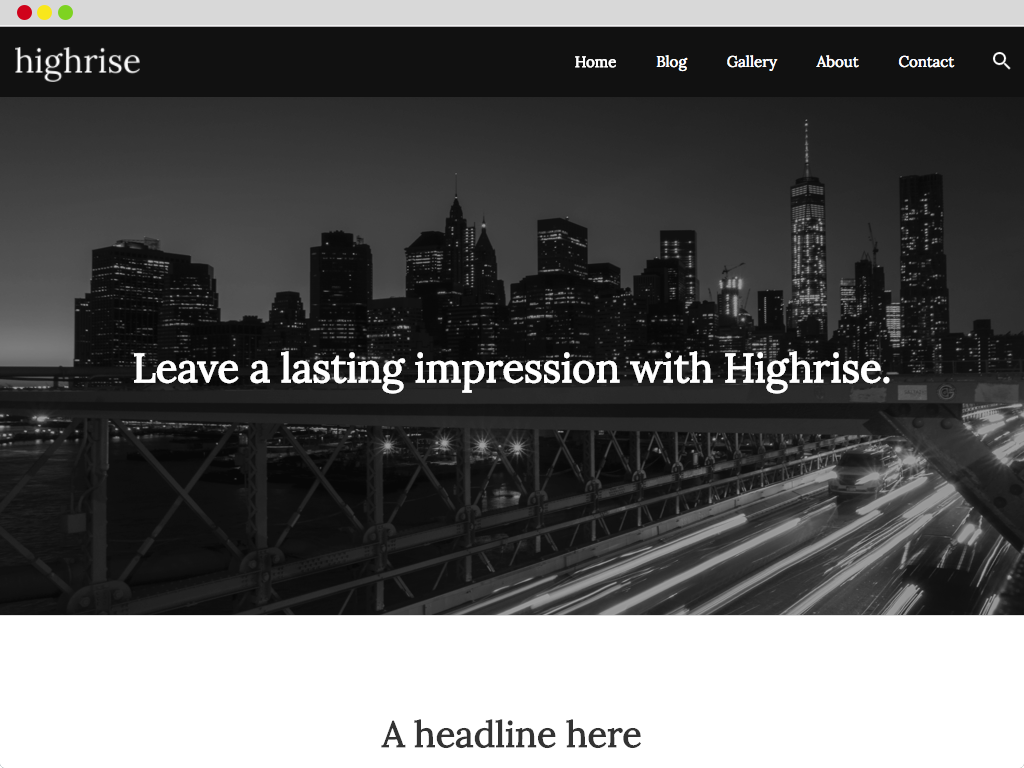
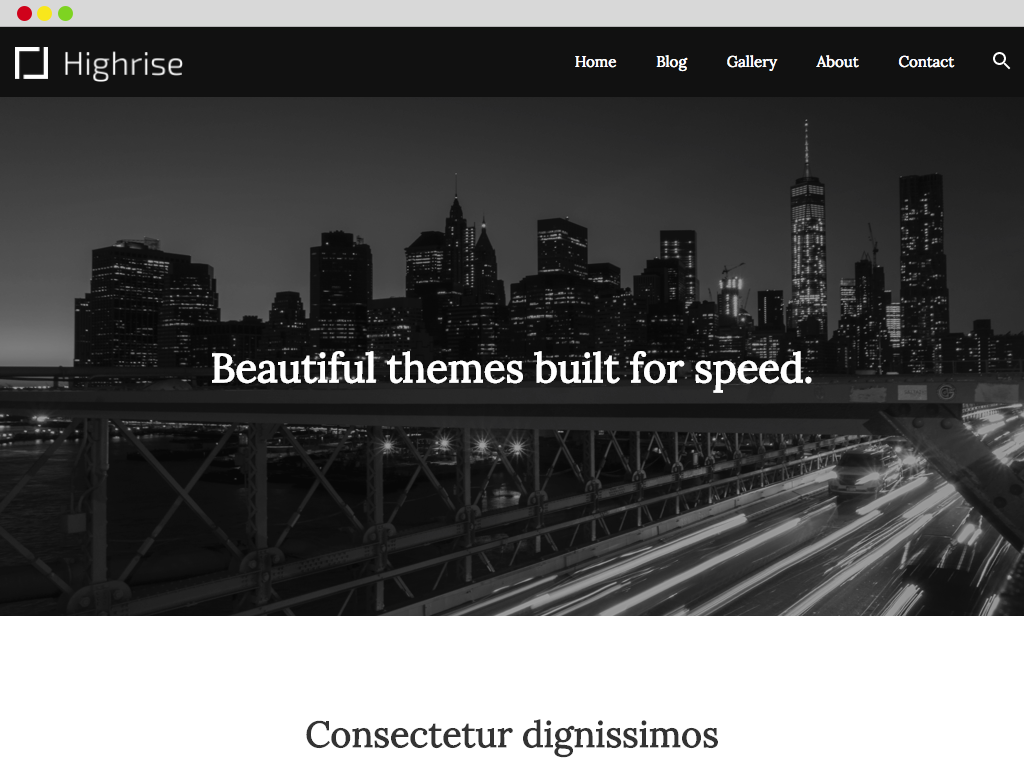
update themes for release

diff --git a/css/site.min.css b/css/site.min.css
@@ -1,1 +1,1 @@
-.mfp-bg{top:0;left:0;width:100%;height:100%;z-index:1042;overflow:hidden;position:fixed;background:#0b0b0b;opacity:.8;filter:alpha(opacity=80)}.mfp-wrap{top:0;left:0;width:100%;height:100%;z-index:1043;position:fixed;outline:0!important;-webkit-backface-visibility:hidden}.mfp-container{text-align:center;position:absolute;width:100%;height:100%;left:0;top:0;padding:0 8px;-webkit-box-sizing:border-box;-moz-box-sizing:border-box;box-sizing:border-box}.mfp-container:before{content:'';display:inline-block;height:100%;vertical-align:middle}.mfp-align-top .mfp-container:before{display:none}.mfp-content{position:relative;display:inline-block;vertical-align:middle;margin:0 auto;text-align:left;z-index:1045}.mfp-ajax-holder .mfp-content,.mfp-inline-holder .mfp-content{width:100%;cursor:auto}.mfp-ajax-cur{cursor:progress}.mfp-zoom-out-cur,.mfp-zoom-out-cur .mfp-image-holder .mfp-close{cursor:-moz-zoom-out;cursor:-webkit-zoom-out;cursor:zoom-out}.mfp-zoom{cursor:pointer;cursor:-webkit-zoom-in;cursor:-moz-zoom-in;cursor:zoom-in}.mfp-auto-cursor .mfp-content{cursor:auto}.mfp-arrow,.mfp-close,.mfp-counter,.mfp-preloader{-webkit-user-select:none;-moz-user-select:none;user-select:none}.mfp-loading.mfp-figure{display:none}.mfp-hide{display:none!important}.mfp-preloader{color:#ccc;position:absolute;top:50%;width:auto;text-align:center;margin-top:-.8em;left:8px;right:8px;z-index:1044}.mfp-preloader a{color:#ccc}.mfp-preloader a:hover{color:#fff}.mfp-s-error .mfp-content,.mfp-s-ready .mfp-preloader{display:none}button.mfp-arrow,button.mfp-close{overflow:visible;cursor:pointer;background:0 0;border:0;-webkit-appearance:none;display:block;outline:0;padding:0;z-index:1046;-webkit-box-shadow:none;box-shadow:none}button::-moz-focus-inner{padding:0;border:0}.mfp-close{width:44px;height:44px;line-height:44px;position:absolute;right:0;top:0;text-decoration:none;text-align:center;opacity:.65;padding:0 0 18px 10px;color:#fff;font-style:normal;font-size:28px;font-family:Arial,Baskerville,monospace}.mfp-close:focus,.mfp-close:hover{opacity:1}.mfp-close:active{top:1px}.mfp-close-btn-in .mfp-close{color:#333}.mfp-iframe-holder .mfp-close,.mfp-image-holder .mfp-close{color:#fff;right:-6px;text-align:right;padding-right:6px;width:100%}.mfp-counter{position:absolute;top:0;right:0;color:#ccc;font-size:12px;line-height:18px}.mfp-arrow{position:absolute;opacity:.65;margin:-55px 0 0;top:50%;padding:0;width:90px;height:110px;-webkit-tap-highlight-color:transparent}.mfp-arrow:active{margin-top:-54px}.mfp-arrow:focus,.mfp-arrow:hover{opacity:1}.mfp-arrow .mfp-a,.mfp-arrow .mfp-b,.mfp-arrow:after,.mfp-arrow:before{content:'';display:block;width:0;height:0;position:absolute;left:0;top:0;margin-top:35px;margin-left:35px;border:inset transparent}.mfp-arrow .mfp-a,.mfp-arrow:after{border-top-width:13px;border-bottom-width:13px;top:8px}.mfp-arrow .mfp-b,.mfp-arrow:before{border-top-width:21px;border-bottom-width:21px}.mfp-arrow-left{left:0}.mfp-arrow-left .mfp-a,.mfp-arrow-left:after{border-right:17px solid #fff;margin-left:31px}.mfp-arrow-left .mfp-b,.mfp-arrow-left:before{margin-left:25px;border-right:27px solid #3f3f3f}.mfp-arrow-right{right:0}.mfp-arrow-right .mfp-a,.mfp-arrow-right:after{border-left:17px solid #fff;margin-left:39px}.mfp-arrow-right .mfp-b,.mfp-arrow-right:before{border-left:27px solid #3f3f3f}.mfp-iframe-holder{padding-top:40px;padding-bottom:40px}.mfp-iframe-holder .mfp-content{line-height:0;width:100%;max-width:900px}.mfp-iframe-holder .mfp-close{top:-40px}.mfp-iframe-scaler{width:100%;height:0;overflow:hidden;padding-top:56.25%}.mfp-iframe-scaler iframe{position:absolute;display:block;top:0;left:0;width:100%;height:100%;box-shadow:0 0 8px rgba(0,0,0,.6);background:#000}img.mfp-img{width:auto;max-width:100%;height:auto;display:block;line-height:0;-webkit-box-sizing:border-box;-moz-box-sizing:border-box;box-sizing:border-box;padding:40px 0;margin:0 auto}.mfp-figure{line-height:0}.mfp-figure:after{content:'';position:absolute;left:0;top:40px;bottom:40px;display:block;right:0;width:auto;height:auto;z-index:-1;box-shadow:0 0 8px rgba(0,0,0,.6);background:#444}.mfp-figure small{color:#bdbdbd;display:block;font-size:12px;line-height:14px}.mfp-bottom-bar{margin-top:-36px;position:absolute;top:100%;left:0;width:100%;cursor:auto}.mfp-title{text-align:left;line-height:18px;color:#f3f3f3;word-wrap:break-word;padding-right:36px}.mfp-image-holder .mfp-content{max-width:100%}.mfp-gallery .mfp-image-holder .mfp-figure{cursor:pointer}@media screen and (max-width:800px) and (orientation:landscape),screen and (max-height:300px){.mfp-img-mobile .mfp-image-holder{padding-left:0;padding-right:0}.mfp-img-mobile img.mfp-img{padding:0}.mfp-img-mobile .mfp-figure:after{top:0;bottom:0}.mfp-img-mobile .mfp-figure small{display:inline;margin-left:5px}.mfp-img-mobile .mfp-bottom-bar{background:rgba(0,0,0,.6);bottom:0;margin:0;top:auto;padding:3px 5px;position:fixed;-webkit-box-sizing:border-box;-moz-box-sizing:border-box;box-sizing:border-box}.mfp-img-mobile .mfp-bottom-bar:empty{padding:0}.mfp-img-mobile .mfp-counter{right:5px;top:3px}.mfp-img-mobile .mfp-close{top:0;right:0;width:35px;height:35px;line-height:35px;background:rgba(0,0,0,.6);position:fixed;text-align:center;padding:0}}@media all and (max-width:900px){.mfp-arrow{-webkit-transform:scale(.75);transform:scale(.75)}.mfp-arrow-left{-webkit-transform-origin:0;transform-origin:0}.mfp-arrow-right{-webkit-transform-origin:100%;transform-origin:100%}.mfp-container{padding-left:6px;padding-right:6px}}.mfp-ie7 .mfp-img{padding:0}.mfp-ie7 .mfp-bottom-bar{width:600px;left:50%;margin-left:-300px;margin-top:5px;padding-bottom:5px}.mfp-ie7 .mfp-container{padding:0}.mfp-ie7 .mfp-content{padding-top:44px}.mfp-ie7 .mfp-close{top:0;right:0;padding-top:0}.pay-block {margin:0 20px 25px 20px;padding:25px 0;border-top:1px solid #ddd;border-bottom:1px solid #ddd;}.pay-block h3 {padding-left:0 !important;}.pay-block input[type=number] {width:100px;height:50px;font-size:25px;text-align:right;}.pay-block .mark {font-size:25px;color:#888;display:inline-block;width:15px;margin:0;padding:0;text-align:right;}.pay-block .pay-radio {display:block;margin:10px 0 25px 15px;}.pay-block .pay-radio label {margin-right:15px;}.pay-block button {display:inline-block;padding:10px 20px;border:1px solid #888;margin-right:15px;min-width:100px;text-align:center;text-transform:uppercase;border:1px solid #00ADE3;background-color:#00ADE3;color:#fff;font-size:15px;cursor:pointer;}.pay-block button[disabled] {border:1px solid #ccc;background-color:#f0f0f0;color:#ccc;}.pay-block a {display:inline-block;color:#00ADE3;text-transform:uppercase;font-size:13px;cursor:pointer;border:1px solid #ddd;padding:10px 20px;}.pay-block a[disabled] {border:1px solid #ccc;background-color:#f0f0f0;color:#ccc;}.pay-block .processed-by {font-size:13px;color:#888;text-transform:uppercase;margin:25px 0 0 0;padding:0;}.perk {border:1px solid #ddd;background-color:#f8f8f8;margin:0 20px 25px 20px;padding:25px;}.perk h4, .perk p {margin:0;padding:0;}.perk h4 {font-size:18px;text-transform:uppercase;margin:0 0 10px 0;color:#2F3243;}.perk small {display:block;color:#00ADE3;text-transform:uppercase;margin-top:-8px;margin-bottom:10px;}.perk p {color:#888;}.perk p strong {color:#555;}[respond-form] .success, [respond-form] .error {display:none;background-color:#fff;border:1px solid #ddd;padding:10px 15px;font-size:16px;margin:0 0 0 15px;}[respond-form] .success[visible], [respond-form] .error[visible] {display:inline-block;}[respond-form] .error {border:1px solid #CF4647;color:#fff;background-color:#CF4647;}[respond-form] .success {border:1px solid #08B168;color:#fff;background-color:#08B168;}[respond-form] .loading {display:none;color:#888;vertical-align:top;width:25px;height:25px;margin-top:5px;margin-left:5px;}[respond-form] .loading[visible] {display:inline-block;}[respond-form] .loading svg {display:block;vertical-align:top;width:25px;height:25px;margin:0;padding:0;line-height:25px;display:inline-block;vertical-align:middle;text-align:center;fill:currentColor;}.map-container {display:block;height:200px;width:100%;border:1px solid #ddd;}body .list-item {border-top:1px solid #ddd;padding:20px 0;}body .list-item:last-child {border-bottom:1px solid #ddd;margin-bottom:20px;}body .list-item h5 {font-size:16px;font-weight:bold;margin:0 0 5px 0;padding:0;text-align:left;}body .list-item p {font-size:14px;margin:0 !important;padding:0;text-align:left !important;}body .app-toast {font-family:'Helvetica', 'Arial', 'sans-serif';position:fixed;z-index:1002;top:0;left:0;width:100%;background-color:#fff;margin:0;text-align:center;padding:10px 0;color:#FFF;background-color:#345A6F;text-transform:uppercase;box-shadow:2px 2px 5px rgba(0, 0, 0, .1);z-index:100005;visibility:hidden;opacity:0;transition:all 0.25s ease;}body .app-toast svg {fill:currentColor;}body .app-toast[success] {background-color:#88C425;}body .app-toast[failure] {background-color:#ED4747;}body .app-toast[active] {visibility:visible;opacity:1;}.gallery-image {display:inline-block;margin:0 20px 20px 0;width:200px;border:5px solid #f0f0f0;}.gallery-image img {width:190px;cursor:pointer;}.respond-lightbox {display:none;align-items:center;justify-content:center;width:100%;height:100%;background:rgba(0, 0, 0, 0.9) none repeat scroll 0 0;overflow:hidden;position:fixed;z-index:99999999;top:0;left:0;}.respond-lightbox[visible] {display:flex;}.respond-lightbox-body {max-width:75%;}.respond-lightbox-body p {color:#fff;margin:10px 0 0 0;padding:0;text-align:center;}.respond-lightbox-body img {max-width:100%;max-height:100%;}.respond-lightbox-close {position:absolute;top:10px;right:10px;cursor:pointer;}.respond-searchbox {display:none;width:100%;height:100%;background:rgba(255, 255, 255, 0.9) none repeat scroll 0 0;overflow:hidden;position:fixed;z-index:99999999;top:0;left:0;transition:all 0.25s ease;}.respond-searchbox[visible] {display:flex;}.respond-searchbox .respond-search-results {margin-top:25px;}.respond-searchbox .respond-search-result {background-color:#fff;border-top:1px solid #ccc;border-left:1px solid #ccc;border-right:1px solid #ccc;padding:20px;}.respond-searchbox .respond-search-result h2 {font-size:18px;font-weight:bold;margin:0 0 5px 0;padding:0;}.respond-searchbox .respond-search-result small {font-size:12px;text-transform:uppercase;margin:0 0 10px 0;padding:0;}.respond-searchbox .respond-search-result p {font-size:13px;margin:0;padding:0;}.respond-searchbox .respond-search-result:last-child {border-bottom:1px solid #ccc;}.respond-searchbox-form {width:80%;margin:50px auto 0 auto;}.respond-searchbox-form input[type=text]{width:100%;padding:10px;border:1px solid #888;}.respond-searchbox-close {position:absolute;top:10px;right:10px;cursor:pointer;}html, body {font-family:'Open Sans', sans-serif;font-weight:400;margin:0;padding:0;font-size:14px;}body.hashedit-active {margin-top:50px !important;}a {text-decoration:none;color:#00ADE3;}h1, h2, h3, h4, h5, p, blockquote {margin:0 0 20px 0;padding:0 20px;color:#2F3243;}h1 {font-size:30px;}h2 {font-size:25px;}h3 {font-size:20px;}h5 {font-size:13px;color:#00ADE3;text-transform:uppercase;font-weight:normal;}code {background-color:rgba(50,153,187,0.05);border:1px solid #ddd;padding:2px 4px;}p {font-size:14px;line-height:25px;color:#555;}a.button {display:inline-block;padding:10px 20px;border:1px solid #fff;min-width:100px;text-align:center;text-transform:uppercase;border:1px solid #00ADE3;}.button.full-width {display:block;}.warning {color:#CF4647;}header, .hero, footer {background-color:#2F3243;}header *, .hero *, footer * {color:#fff;}[respond-search] {cursor:pointer;}.md-plus {visibility:visible;display:block;}.sm {visibility:hidden;display:none;}.grid {display:flex;margin:0;padding:0;}.grid.alternate-background {background-color:#2F3243;}.grid.alternate-background * {color:#fff;}.grid-cell {flex:1;margin:0;padding:0;}.grid-cell * {position:relative;}.base-padding {padding:20px;}.pad-top {padding-top:40px;}.pad-bottom {padding-bottom:40px;}.align-center {text-align:center;}.align-right {text-align:right;}.valign-center {display:flex;align-items:center;justify-content:center;}.valign-bottom {display:flex;align-items:center;justify-content:center;align-self:flex-end;}header {position:relative;height:35px;line-height:35px;padding:20px;text-align:right;z-index:11;}header .brand {position:absolute;top:20px;left:20px;}header img {max-height:35px;}header nav ul {list-style:none;margin:0 50px 0 0;padding:0;}header nav ul li {margin:0 0 0 20px;padding:0;display:inline-block;}header nav ul li a {font-size:14px;text-transform:uppercase;}header .menu {position:absolute;top:25px;right:65px;height:35px;width:35px;}header .search {position:absolute;top:25px;right:20px;height:35px;width:35px;}.hero a {display:inline-block;padding:10px 20px;border:1px solid #fff;margin-right:15px;margin-bottom:10px;min-width:100px;text-align:center;text-transform:uppercase;}.hero a.primary {border:1px solid #00ADE3;}.circle-icon {display:inline-block;margin-bottom:20px;max-width:100px;}.screen {width:calc(100% - 10px);border-bottom:1px solid #2F3243;border-left:10px solid rgba(255,255,255,.25);border-top:10px solid rgba(255,255,255,.25);}.screen-on-whitebg {border-bottom:none;border-left:10px solid #f8f8f8;border-top:10px solid #f8f8f8;}.screenshot {margin:0 10px 20px 10px;width:calc(100% - 40px);border:10px solid #f8f8f8;}body.content footer {margin-top:50px;}footer nav ul {list-style:none;margin:0 0 25px 0;padding:0;}footer nav ul li {margin:0 0 0 20px;padding:0;display:inline-block;}footer nav ul li a {font-size:14px;text-transform:uppercase;}[toggle-drawer] {cursor:pointer;}.drawer {position:absolute;top:-500px;left:0;width:100%;margin:0;padding:0;background-color:#2F3243;z-index:10;border-top:1px solid #00ADE3;transition:all 0.1s ease;}.drawer[active] {top:75px;}.drawer ul {list-style:none;margin:0;padding:0;}.drawer ul li {display:block;border-bottom:1px solid rgba(255,255,255,0.25);margin:0;padding:0;}.drawer ul li a {display:block;padding:20px;text-align:center;color:#fff;background-color:#2F3243;text-transform:uppercase;}body.content .container {max-width:1000px;min-height:500px;margin:25px auto 0 auto;}body.content .container.title {max-width:1000px;min-height:auto;margin:25px auto 0 auto;}body.content .container.video-callout {max-width:100%;background-color:#f0f0f0;min-height:auto;padding:25px 0 !important;} body.content .container.video-callout .block { max-width:1000px; margin:0 auto; padding:0 20px; }body.content h3 {text-transform:uppercase;font-size:15px;padding-top:25px;}body.content .table {width:calc(100% - 40px);margin:0 20px 25px 20px;padding:0;border-spacing:0;border-collapse:collapse;}body.content .table th {text-transform:uppercase;color:#888;font-weight:normal;font-size:13px;text-align:left;padding-bottom:10px;}body.content .table thead tr {border-bottom:1px solid #ddd;}body.content .table tbody tr {border-bottom:1px solid #f0f0f0;}body.content .table tbody tr:last-child {border-bottom:none;}body.content .table td {margin:0;padding:10px 10px 10px 0;}body.content .table tbody td:first-child {width:250px;}body.content pre {background-color:rgba(50,153,187,0.05);border-radius:0;border:1px solid #ddd;margin-bottom:25px;color:#555;padding:20px;margin:0 20px 20px 20px;}body.content .support {background-color:rgba(184,223,134,0.15);border-radius:0;border:1px solid #ddd;margin-bottom:25px;color:#555;padding:20px;margin:0 20px 25px 20px;}body.content pre.prettyprint {width:auto;overflow:auto;max-height:300px}body.content li {margin-bottom:5px;}body.content ul, body.content ol {margin-bottom:20px;}.product {position:relative;border:1px solid transparent;border-radius:5px;min-height:280px;padding:25px 0 25px 25px;margin:0 20px 25px 20px;background-color:#555;}.product[theme="aspire"] {background-color:#334663;}.product[theme="highrise"] {background-color:#111111;}.product[theme="energy"] {background-color:#95A8B2;}.product[theme="persistence"] {background-color:#555;}.product[theme="perspective"] {background-color:#6C8393;}.product[theme="executive"] {background-color:#8DA8CC;}.product[theme="serene"] {background-color:#8895A6;}.product[theme="sidebar"] {background-color:#A4AEB8;}.product[theme="stark"] {background-color:#111;}.product[theme="starter"] {background-color:#777;}.product h2 {margin:0;padding:0;width:calc(60% - 20px);}.product p {margin:10px 0;padding:0;color:#fff;width:calc(50% - 75px);}.product h2 a {color:#fff;margin:0;padding:0;}.product a.demo {display:inline-block;padding:10px 25px;margin:10px 10px 0 0;border:1px solid #fff;color:#fff;}.product a.buy-now {display:inline-block;padding:10px 25px;margin:10px 0 0 0;border:1px solid #fff;color:#888;background-color:#fff;}.product[theme="energy"] a.buy-now {color:#95A8B2;}.product[theme="persistence"] a.buy-now {color:#555;}.product[theme="perspective"] a.buy-now {color:#6C8393;}.product[theme="executive"] a.buy-now {color:#8DA8CC;}.product[theme="serene"] a.buy-now {color:#8895A6;}.product[theme="sidebar"] a.buy-now {color:#A4AEB8;}.product[theme="stark"] a.buy-now {color:#111;}.product[theme="starter"] a.buy-now {color:#777;}.product .product-image img {position:absolute;bottom:0;right:10px;border-left:10px solid rgba(255,255,255,0.25);border-top:10px solid rgba(255,255,255,0.25);border-right:10px solid rgba(255,255,255,0.25);height:300px;}.contributor {position:relative;border-top:1px solid #ddd;padding-bottom:10px;margin:20px;margin-bottom:0 !important;}.contributor h3, .contributor p {margin:0;padding:0;}.contributor .logo {position:absolute;top:30px;left:0;width:75px;height:75px;border:1px solid #ccc;border-radius:50%;text-align:center;}.contributor .logo img {position:absolute;top:50%;left:50%;margin-left:-25%;margin-top:-25%;display:block;}.contributor.featured h3, .contributor.featured p {margin-left:100px;}.contributor h3 a {color:#111;}.contributor p {margin-bottom:10px;color:#555;}.contributor p:last-child {margin-bottom:0;}.responsive-video {width:calc(100% - 20px);max-width:calc(100% - 20px);height:auto;border:10px solid #f8f8f8;}.video {padding:10px;margin-bottom:10px;}div.more-space {margin-top:20px !important;}.partner-logo {filter:grayscale(100%);}.partner-logo:hover {filter:none;}div[type=form] {margin:0 20px;}div[type=form] label {display:block;color:#555;margin:0 0 5px 0;}div[type=form] input[type=text] {margin:0 0 20px 0;padding:10px 5px;width:100%;max-width:500px;font-size:15px;}div[type=form] textarea {margin:0 0 20px 0;padding:10px 5px;width:100%;max-width:500px;font-size:15px;}div[type=form] button {display:inline-block;padding:10px 20px;border:1px solid #00ADE3;margin-right:15px;margin-bottom:10px;min-width:100px;text-align:center;color:#555;background:#fff;font-size:15px;}@media (max-width:768px) {body.content .table tbody td:first-child {width:auto;}.md-plus {visibility:hidden;display:none;}.sm {visibility:visible;display:block;}.hero a {display:block;margin-bottom:10px;}.grid {display:block;}.grid-cell {flex:none;display:block;}.screen {width:100%;width:calc(100% - 20px);border-right:10px solid rgba(255,255,255,.25);}.screen-on-whitebg {border-bottom:none;border-right:10px solid #f8f8f8;}.product p {width:calc(100% - 10px);}.product .product-image img {position:relative;display:block;margin-top:20px;height:auto;width:calc(100% - 20px);border-bottom:10px solid rgba(255,255,255,0.25);}}
+.mfp-bg{top:0;left:0;width:100%;height:100%;z-index:1042;overflow:hidden;position:fixed;background:#0b0b0b;opacity:.8;filter:alpha(opacity=80)}.mfp-wrap{top:0;left:0;width:100%;height:100%;z-index:1043;position:fixed;outline:0!important;-webkit-backface-visibility:hidden}.mfp-container{text-align:center;position:absolute;width:100%;height:100%;left:0;top:0;padding:0 8px;-webkit-box-sizing:border-box;-moz-box-sizing:border-box;box-sizing:border-box}.mfp-container:before{content:'';display:inline-block;height:100%;vertical-align:middle}.mfp-align-top .mfp-container:before{display:none}.mfp-content{position:relative;display:inline-block;vertical-align:middle;margin:0 auto;text-align:left;z-index:1045}.mfp-ajax-holder .mfp-content,.mfp-inline-holder .mfp-content{width:100%;cursor:auto}.mfp-ajax-cur{cursor:progress}.mfp-zoom-out-cur,.mfp-zoom-out-cur .mfp-image-holder .mfp-close{cursor:-moz-zoom-out;cursor:-webkit-zoom-out;cursor:zoom-out}.mfp-zoom{cursor:pointer;cursor:-webkit-zoom-in;cursor:-moz-zoom-in;cursor:zoom-in}.mfp-auto-cursor .mfp-content{cursor:auto}.mfp-arrow,.mfp-close,.mfp-counter,.mfp-preloader{-webkit-user-select:none;-moz-user-select:none;user-select:none}.mfp-loading.mfp-figure{display:none}.mfp-hide{display:none!important}.mfp-preloader{color:#ccc;position:absolute;top:50%;width:auto;text-align:center;margin-top:-.8em;left:8px;right:8px;z-index:1044}.mfp-preloader a{color:#ccc}.mfp-preloader a:hover{color:#fff}.mfp-s-error .mfp-content,.mfp-s-ready .mfp-preloader{display:none}button.mfp-arrow,button.mfp-close{overflow:visible;cursor:pointer;background:0 0;border:0;-webkit-appearance:none;display:block;outline:0;padding:0;z-index:1046;-webkit-box-shadow:none;box-shadow:none}button::-moz-focus-inner{padding:0;border:0}.mfp-close{width:44px;height:44px;line-height:44px;position:absolute;right:0;top:0;text-decoration:none;text-align:center;opacity:.65;padding:0 0 18px 10px;color:#fff;font-style:normal;font-size:28px;font-family:Arial,Baskerville,monospace}.mfp-close:focus,.mfp-close:hover{opacity:1}.mfp-close:active{top:1px}.mfp-close-btn-in .mfp-close{color:#333}.mfp-iframe-holder .mfp-close,.mfp-image-holder .mfp-close{color:#fff;right:-6px;text-align:right;padding-right:6px;width:100%}.mfp-counter{position:absolute;top:0;right:0;color:#ccc;font-size:12px;line-height:18px}.mfp-arrow{position:absolute;opacity:.65;margin:-55px 0 0;top:50%;padding:0;width:90px;height:110px;-webkit-tap-highlight-color:transparent}.mfp-arrow:active{margin-top:-54px}.mfp-arrow:focus,.mfp-arrow:hover{opacity:1}.mfp-arrow .mfp-a,.mfp-arrow .mfp-b,.mfp-arrow:after,.mfp-arrow:before{content:'';display:block;width:0;height:0;position:absolute;left:0;top:0;margin-top:35px;margin-left:35px;border:inset transparent}.mfp-arrow .mfp-a,.mfp-arrow:after{border-top-width:13px;border-bottom-width:13px;top:8px}.mfp-arrow .mfp-b,.mfp-arrow:before{border-top-width:21px;border-bottom-width:21px}.mfp-arrow-left{left:0}.mfp-arrow-left .mfp-a,.mfp-arrow-left:after{border-right:17px solid #fff;margin-left:31px}.mfp-arrow-left .mfp-b,.mfp-arrow-left:before{margin-left:25px;border-right:27px solid #3f3f3f}.mfp-arrow-right{right:0}.mfp-arrow-right .mfp-a,.mfp-arrow-right:after{border-left:17px solid #fff;margin-left:39px}.mfp-arrow-right .mfp-b,.mfp-arrow-right:before{border-left:27px solid #3f3f3f}.mfp-iframe-holder{padding-top:40px;padding-bottom:40px}.mfp-iframe-holder .mfp-content{line-height:0;width:100%;max-width:900px}.mfp-iframe-holder .mfp-close{top:-40px}.mfp-iframe-scaler{width:100%;height:0;overflow:hidden;padding-top:56.25%}.mfp-iframe-scaler iframe{position:absolute;display:block;top:0;left:0;width:100%;height:100%;box-shadow:0 0 8px rgba(0,0,0,.6);background:#000}img.mfp-img{width:auto;max-width:100%;height:auto;display:block;line-height:0;-webkit-box-sizing:border-box;-moz-box-sizing:border-box;box-sizing:border-box;padding:40px 0;margin:0 auto}.mfp-figure{line-height:0}.mfp-figure:after{content:'';position:absolute;left:0;top:40px;bottom:40px;display:block;right:0;width:auto;height:auto;z-index:-1;box-shadow:0 0 8px rgba(0,0,0,.6);background:#444}.mfp-figure small{color:#bdbdbd;display:block;font-size:12px;line-height:14px}.mfp-bottom-bar{margin-top:-36px;position:absolute;top:100%;left:0;width:100%;cursor:auto}.mfp-title{text-align:left;line-height:18px;color:#f3f3f3;word-wrap:break-word;padding-right:36px}.mfp-image-holder .mfp-content{max-width:100%}.mfp-gallery .mfp-image-holder .mfp-figure{cursor:pointer}@media screen and (max-width:800px) and (orientation:landscape),screen and (max-height:300px){.mfp-img-mobile .mfp-image-holder{padding-left:0;padding-right:0}.mfp-img-mobile img.mfp-img{padding:0}.mfp-img-mobile .mfp-figure:after{top:0;bottom:0}.mfp-img-mobile .mfp-figure small{display:inline;margin-left:5px}.mfp-img-mobile .mfp-bottom-bar{background:rgba(0,0,0,.6);bottom:0;margin:0;top:auto;padding:3px 5px;position:fixed;-webkit-box-sizing:border-box;-moz-box-sizing:border-box;box-sizing:border-box}.mfp-img-mobile .mfp-bottom-bar:empty{padding:0}.mfp-img-mobile .mfp-counter{right:5px;top:3px}.mfp-img-mobile .mfp-close{top:0;right:0;width:35px;height:35px;line-height:35px;background:rgba(0,0,0,.6);position:fixed;text-align:center;padding:0}}@media all and (max-width:900px){.mfp-arrow{-webkit-transform:scale(.75);transform:scale(.75)}.mfp-arrow-left{-webkit-transform-origin:0;transform-origin:0}.mfp-arrow-right{-webkit-transform-origin:100%;transform-origin:100%}.mfp-container{padding-left:6px;padding-right:6px}}.mfp-ie7 .mfp-img{padding:0}.mfp-ie7 .mfp-bottom-bar{width:600px;left:50%;margin-left:-300px;margin-top:5px;padding-bottom:5px}.mfp-ie7 .mfp-container{padding:0}.mfp-ie7 .mfp-content{padding-top:44px}.mfp-ie7 .mfp-close{top:0;right:0;padding-top:0}.pay-block {margin:0 20px 25px 20px;padding:25px 0;border-top:1px solid #ddd;border-bottom:1px solid #ddd;}.pay-block h3 {padding-left:0 !important;}.pay-block input[type=number] {width:100px;height:50px;font-size:25px;text-align:right;}.pay-block .mark {font-size:25px;color:#888;display:inline-block;width:15px;margin:0;padding:0;text-align:right;}.pay-block .pay-radio {display:block;margin:10px 0 25px 15px;}.pay-block .pay-radio label {margin-right:15px;}.pay-block button {display:inline-block;padding:10px 20px;border:1px solid #888;margin-right:15px;min-width:100px;text-align:center;text-transform:uppercase;border:1px solid #00ADE3;background-color:#00ADE3;color:#fff;font-size:15px;cursor:pointer;}.pay-block button[disabled] {border:1px solid #ccc;background-color:#f0f0f0;color:#ccc;}.pay-block a {display:inline-block;color:#00ADE3;text-transform:uppercase;font-size:13px;cursor:pointer;border:1px solid #ddd;padding:10px 20px;}.pay-block a[disabled] {border:1px solid #ccc;background-color:#f0f0f0;color:#ccc;}.pay-block .processed-by {font-size:13px;color:#888;text-transform:uppercase;margin:25px 0 0 0;padding:0;}.perk {border:1px solid #ddd;background-color:#f8f8f8;margin:0 20px 25px 20px;padding:25px;}.perk h4, .perk p {margin:0;padding:0;}.perk h4 {font-size:18px;text-transform:uppercase;margin:0 0 10px 0;color:#2F3243;}.perk small {display:block;color:#00ADE3;text-transform:uppercase;margin-top:-8px;margin-bottom:10px;}.perk p {color:#888;}.perk p strong {color:#555;}[respond-form] .success, [respond-form] .error {display:none;background-color:#fff;border:1px solid #ddd;padding:10px 15px;font-size:16px;margin:0 0 0 15px;}[respond-form] .success[visible], [respond-form] .error[visible] {display:inline-block;}[respond-form] .error {border:1px solid #CF4647;color:#fff;background-color:#CF4647;}[respond-form] .success {border:1px solid #08B168;color:#fff;background-color:#08B168;}[respond-form] .loading {display:none;color:#888;vertical-align:top;width:25px;height:25px;margin-top:5px;margin-left:5px;}[respond-form] .loading[visible] {display:inline-block;}[respond-form] .loading svg {display:block;vertical-align:top;width:25px;height:25px;margin:0;padding:0;line-height:25px;display:inline-block;vertical-align:middle;text-align:center;fill:currentColor;}.map-container {display:block;height:200px;width:100%;border:1px solid #ddd;}body .list-item {border-top:1px solid #ddd;padding:20px 0;}body .list-item:last-child {border-bottom:1px solid #ddd;margin-bottom:20px;}body .list-item h5 {font-size:16px;font-weight:bold;margin:0 0 5px 0;padding:0;text-align:left;}body .list-item p {font-size:14px;margin:0 !important;padding:0;text-align:left !important;}body .app-toast {font-family:'Helvetica', 'Arial', 'sans-serif';position:fixed;z-index:1002;top:0;left:0;width:100%;background-color:#fff;margin:0;text-align:center;padding:10px 0;color:#FFF;background-color:#345A6F;text-transform:uppercase;box-shadow:2px 2px 5px rgba(0, 0, 0, .1);z-index:100005;visibility:hidden;opacity:0;transition:all 0.25s ease;}body .app-toast svg {fill:currentColor;}body .app-toast[success] {background-color:#88C425;}body .app-toast[failure] {background-color:#ED4747;}body .app-toast[active] {visibility:visible;opacity:1;}.gallery-image {display:inline-block;margin:0 20px 20px 0;width:200px;border:5px solid #f0f0f0;}.gallery-image img {width:190px;cursor:pointer;}.respond-lightbox {display:none;align-items:center;justify-content:center;width:100%;height:100%;background:rgba(0, 0, 0, 0.9) none repeat scroll 0 0;overflow:hidden;position:fixed;z-index:99999999;top:0;left:0;}.respond-lightbox[visible] {display:flex;}.respond-lightbox-body {max-width:75%;}.respond-lightbox-body p {color:#fff;margin:10px 0 0 0;padding:0;text-align:center;}.respond-lightbox-body img {max-width:100%;max-height:100%;}.respond-lightbox-close {position:absolute;top:10px;right:10px;cursor:pointer;}.respond-searchbox {display:none;width:100%;height:100%;background:rgba(255, 255, 255, 0.9) none repeat scroll 0 0;overflow:hidden;position:fixed;z-index:99999999;top:0;left:0;transition:all 0.25s ease;}.respond-searchbox[visible] {display:flex;}.respond-searchbox .respond-search-results {margin-top:25px;}.respond-searchbox .respond-search-result {background-color:#fff;border-top:1px solid #ccc;border-left:1px solid #ccc;border-right:1px solid #ccc;padding:20px;}.respond-searchbox .respond-search-result h2 {font-size:18px;font-weight:bold;margin:0 0 5px 0;padding:0;}.respond-searchbox .respond-search-result small {font-size:12px;text-transform:uppercase;margin:0 0 10px 0;padding:0;}.respond-searchbox .respond-search-result p {font-size:13px;margin:0;padding:0;}.respond-searchbox .respond-search-result:last-child {border-bottom:1px solid #ccc;}.respond-searchbox-form {width:80%;margin:50px auto 0 auto;}.respond-searchbox-form input[type=text]{width:100%;padding:10px;border:1px solid #888;}.respond-searchbox-close {position:absolute;top:10px;right:10px;cursor:pointer;}html, body {font-family:'Open Sans', sans-serif;font-weight:400;margin:0;padding:0;font-size:14px;}body.hashedit-active {margin-top:50px !important;}a {text-decoration:none;color:#00ADE3;}h1, h2, h3, h4, h5, p, blockquote {margin:0 0 20px 0;padding:0 20px;color:#2F3243;}h1 {font-size:30px;}h2 {font-size:25px;}h3 {font-size:20px;}h5 {font-size:13px;color:#00ADE3;text-transform:uppercase;font-weight:normal;}code {background-color:rgba(50,153,187,0.05);border:1px solid #ddd;padding:2px 4px;}p {font-size:14px;line-height:25px;color:#555;}a.button {display:inline-block;padding:10px 20px;border:1px solid #fff;min-width:100px;text-align:center;text-transform:uppercase;border:1px solid #00ADE3;}.button.full-width {display:block;}.warning {color:#CF4647;}header, .hero, footer {background-color:#2F3243;}header *, .hero *, footer * {color:#fff;}[respond-search] {cursor:pointer;}.md-plus {visibility:visible;display:block;}.sm {visibility:hidden;display:none;}.grid {display:flex;margin:0;padding:0;}.grid.alternate-background {background-color:#2F3243;}.grid.alternate-background * {color:#fff;}.grid-cell {flex:1;margin:0;padding:0;}.grid-cell * {position:relative;}.base-padding {padding:20px;}.pad-top {padding-top:100px;}.pad-bottom {padding-bottom:100px;}.align-center {text-align:center;}.align-right {text-align:right;}.valign-center {display:flex;align-items:center;justify-content:center;}.valign-bottom {display:flex;align-items:center;justify-content:center;align-self:flex-end;}header {position:relative;height:35px;line-height:35px;padding:20px;text-align:right;z-index:11;}header .brand {position:absolute;top:20px;left:20px;}header img {max-height:35px;}header nav ul {list-style:none;margin:0 50px 0 0;padding:0;}header nav ul li {margin:0 0 0 20px;padding:0;display:inline-block;}header nav ul li a {font-size:14px;text-transform:uppercase;}header .menu {position:absolute;top:25px;right:65px;height:35px;width:35px;}header .search {position:absolute;top:25px;right:20px;height:35px;width:35px;}.hero a {display:inline-block;padding:10px 20px;border:1px solid #fff;margin-right:15px;margin-bottom:10px;min-width:100px;text-align:center;text-transform:uppercase;}.hero a.primary {border:1px solid #00ADE3;}.circle-icon {display:inline-block;margin-bottom:20px;max-width:100px;}.screen {width:calc(100% - 10px);border-bottom:1px solid #2F3243;border-left:10px solid rgba(255,255,255,.25);border-top:10px solid rgba(255,255,255,.25);}.screen-on-whitebg {border-bottom:none;border-left:10px solid #f8f8f8;border-top:10px solid #f8f8f8;}.screenshot {margin:0 10px 20px 10px;width:calc(100% - 40px);border:10px solid #f8f8f8;}body.content footer {margin-top:50px;}footer nav ul {list-style:none;margin:0 0 25px 0;padding:0;}footer nav ul li {margin:0 0 0 20px;padding:0;display:inline-block;}footer nav ul li a {font-size:14px;text-transform:uppercase;}[toggle-drawer] {cursor:pointer;}.drawer {position:absolute;top:-500px;left:0;width:100%;margin:0;padding:0;background-color:#2F3243;z-index:10;border-top:1px solid #00ADE3;transition:all 0.1s ease;}.drawer[active] {top:75px;}.drawer ul {list-style:none;margin:0;padding:0;}.drawer ul li {display:block;border-bottom:1px solid rgba(255,255,255,0.25);margin:0;padding:0;}.drawer ul li a {display:block;padding:20px;text-align:center;color:#fff;background-color:#2F3243;text-transform:uppercase;}body.content .container {max-width:1000px;min-height:500px;margin:25px auto 0 auto;}body.content .container.title {max-width:1000px;min-height:auto;margin:25px auto 0 auto;}body.content .container.video-callout {max-width:100%;background-color:#f0f0f0;min-height:auto;padding:25px 0 !important;} body.content .container.video-callout .block { max-width:1000px; margin:0 auto; padding:0 20px; }body.content h3 {text-transform:uppercase;font-size:15px;padding-top:25px;}body.content .table {width:calc(100% - 40px);margin:0 20px 25px 20px;padding:0;border-spacing:0;border-collapse:collapse;}body.content .table th {text-transform:uppercase;color:#888;font-weight:normal;font-size:13px;text-align:left;padding-bottom:10px;}body.content .table thead tr {border-bottom:1px solid #ddd;}body.content .table tbody tr {border-bottom:1px solid #f0f0f0;}body.content .table tbody tr:last-child {border-bottom:none;}body.content .table td {margin:0;padding:10px 10px 10px 0;}body.content .table tbody td:first-child {width:250px;}body.content pre {background-color:rgba(50,153,187,0.05);border-radius:0;border:1px solid #ddd;margin-bottom:25px;color:#555;padding:20px;margin:0 20px 20px 20px;}body.content .support {background-color:rgba(184,223,134,0.15);border-radius:0;border:1px solid #ddd;margin-bottom:25px;color:#555;padding:20px;margin:0 20px 25px 20px;}body.content pre.prettyprint {width:auto;overflow:auto;max-height:300px}body.content li {margin-bottom:5px;}body.content ul, body.content ol {margin-bottom:20px;}.product {position:relative;border:1px solid transparent;border-radius:5px;min-height:280px;padding:25px 0 25px 25px;margin:0 20px 25px 20px;background-color:#555;}.product[theme="aspire"] {background-color:#334663;}.product[theme="highrise"] {background-color:#111111;}.product[theme="energy"] {background-color:#95A8B2;}.product[theme="persistence"] {background-color:#555;}.product[theme="perspective"] {background-color:#6C8393;}.product[theme="executive"] {background-color:#8DA8CC;}.product[theme="serene"] {background-color:#8895A6;}.product[theme="sidebar"] {background-color:#A4AEB8;}.product[theme="stark"] {background-color:#111;}.product[theme="starter"] {background-color:#777;}.product h2 {margin:0;padding:0;width:calc(60% - 20px);}.product p {margin:10px 0;padding:0;color:#fff;width:calc(50% - 75px);}.product h2 a {color:#fff;margin:0;padding:0;}.product a.demo {display:inline-block;padding:10px 25px;margin:10px 10px 0 0;border:1px solid #fff;color:#fff;}.product a.buy-now {display:inline-block;padding:10px 25px;margin:10px 0 0 0;border:1px solid #fff;color:#888;background-color:#fff;}.product[theme="energy"] a.buy-now {color:#95A8B2;}.product[theme="persistence"] a.buy-now {color:#555;}.product[theme="perspective"] a.buy-now {color:#6C8393;}.product[theme="executive"] a.buy-now {color:#8DA8CC;}.product[theme="serene"] a.buy-now {color:#8895A6;}.product[theme="sidebar"] a.buy-now {color:#A4AEB8;}.product[theme="stark"] a.buy-now {color:#111;}.product[theme="starter"] a.buy-now {color:#777;}.product .product-image img {position:absolute;bottom:0;right:10px;border-left:10px solid rgba(255,255,255,0.25);border-top:10px solid rgba(255,255,255,0.25);border-right:10px solid rgba(255,255,255,0.25);height:300px;}.contributor {position:relative;border-top:1px solid #ddd;padding-bottom:10px;margin:20px;margin-bottom:0 !important;}.contributor h3, .contributor p {margin:0;padding:0;}.contributor .logo {position:absolute;top:30px;left:0;width:75px;height:75px;border:1px solid #ccc;border-radius:50%;text-align:center;}.contributor .logo img {position:absolute;top:50%;left:50%;margin-left:-25%;margin-top:-25%;display:block;}.contributor.featured h3, .contributor.featured p {margin-left:100px;}.contributor h3 a {color:#111;}.contributor p {margin-bottom:10px;color:#555;}.contributor p:last-child {margin-bottom:0;}.responsive-video {width:calc(100% - 20px);max-width:calc(100% - 20px);height:auto;border:10px solid #f8f8f8;}.video {padding:10px;margin-bottom:10px;}div.more-space {margin-top:20px !important;}.partner-logo {filter:grayscale(100%);}.partner-logo:hover {filter:none;}div[type=form] {margin:0 20px;}div[type=form] label {display:block;color:#555;margin:0 0 5px 0;}div[type=form] input[type=text] {margin:0 0 20px 0;padding:10px 5px;width:100%;max-width:500px;font-size:15px;}div[type=form] textarea {margin:0 0 20px 0;padding:10px 5px;width:100%;max-width:500px;font-size:15px;}div[type=form] button {display:inline-block;padding:10px 20px;border:1px solid #00ADE3;margin-right:15px;margin-bottom:10px;min-width:100px;text-align:center;color:#555;background:#fff;font-size:15px;}@media (max-width:768px) {body.content .table tbody td:first-child {width:auto;}.md-plus {visibility:hidden;display:none;}.sm {visibility:visible;display:block;}.hero a {display:block;margin-bottom:10px;}.grid {display:block;}.grid-cell {flex:none;display:block;}.screen {width:100%;width:calc(100% - 20px);border-right:10px solid rgba(255,255,255,.25);}.screen-on-whitebg {border-bottom:none;border-right:10px solid #f8f8f8;}.product p {width:calc(100% - 10px);}.product .product-image img {position:relative;display:block;margin-top:20px;height:auto;width:calc(100% - 20px);border-bottom:10px solid rgba(255,255,255,0.25);}}

diff --git a/marketplace.html b/marketplace.html
@@ -36,7 +36,7 @@
   <link type="text/css" href="css/site.css" rel="stylesheet">
   <link type="text/css" href="css/plugins.css" rel="stylesheet">
 
-  
+
 
 <style respond-settings></style></head>
 
@@ -83,7 +83,7 @@
     <div  class="col col-md-12">
       <h1>Marketplace</h1>
 
-      <p class="support"><b>Ten free themes and more to come!</b>  Support our work on <a href="https://www.patreon.com/respond">Patreon</a>.</p>
+      <p class="support"><b>10+ free themes and more to come!</b>  Support our work on <a href="https://www.patreon.com/respond">Patreon</a>.</p>
 
       <p>Respond themes are available to download from the <a href="https://github.com/madoublet/respond-themes">themes repository</a>.</p>
     </div>
@@ -91,7 +91,7 @@
     <div class="product" theme="aspire">
       <h2><a href="https://github.com/madoublet/respond-themes">Aspire</a></h2>
 
-      <p>A bold, mobile-first design built to propel your brand in new directions.</p>
+      <p>Aspire is a bold, mobile-first design built to push your site forward..</p>
 
       <a class="demo" href="http://aspire.respond.website">Demo</a>
       <a class="buy-now purchase" href="https://github.com/madoublet/respond-themes">Free - Download now</a>
@@ -102,7 +102,7 @@
     <div class="product" theme="market">
       <h2><a href="https://github.com/madoublet/respond-themes">Market</a></h2>
 
-      <p>An elegant theme featuring a slideshow in the call-to-action.</p>
+      <p>Market provides a beautiful look-and-feel to your corporate or personal website.</p>
 
       <a class="demo" href="http://market.respond.website">Demo</a>
       <a class="buy-now" href="https://github.com/madoublet/respond-themes">Free - Download now</a>
@@ -124,7 +124,7 @@
     <div class="product" theme="persistence">
       <h2><a href="https://github.com/madoublet/respond-themes">Persistence</a></h2>
 
-      <p>An beautiful theme featuring a beautiful texture background and a unique layout.</p>
+      <p>A beautiful theme featuring a beautiful texture background and a unique layout.</p>
 
       <a class="demo" href="http://persistence.respond.website">Demo</a>
       <a class="buy-now" href="https://github.com/madoublet/respond-themes">Free - Download now</a>
@@ -160,7 +160,7 @@
     <div class="product" theme="highrise">
       <h2><a href="https://github.com/madoublet/respond-themes">Highrise</a></h2>
 
-      <p>An elegant theme featuring a slideshow in the call-to-action.</p>
+      <p>Highrise provides a dramatic look-and-feel to your corporate or personal website.</p>
 
       <a class="demo" href="http://highrise.respond.website">Demo</a>
       <a class="buy-now" href="https://github.com/madoublet/respond-themes">Free - Download now</a>
@@ -206,6 +206,19 @@
 
     </div>
 
+    <div class="product" theme="base">
+
+      <h2><a href="https://github.com/madoublet/respond-themes">Base</a></h2>
+
+      <p>Base is a knowledge base theme created for Respond.</p>
+
+      <a class="demo" href="http://base.respond.website">Demo</a>
+      <a class="buy-now" href="https://github.com/madoublet/respond-themes">Free - Download now</a>
+
+      <a class="product-image" href="https://github.com/madoublet/respond-themes"><img src="resources/base.png"></a>
+
+    </div>
+
   </div>
 </div>
 
@@ -241,6 +254,6 @@
 </script>
  <!-- /respond-plugin:analytics -->
 
- 
+
 
 </html>

diff --git a/css/site.css b/css/site.css
@@ -125,11 +125,11 @@ header *, .hero *, footer * {
 }
 
   .pad-top {
-    padding-top: 40px;
+    padding-top: 100px;
   }
 
   .pad-bottom {
-    padding-bottom: 40px;
+    padding-bottom: 100px;
   }
 
 /* alignment */
